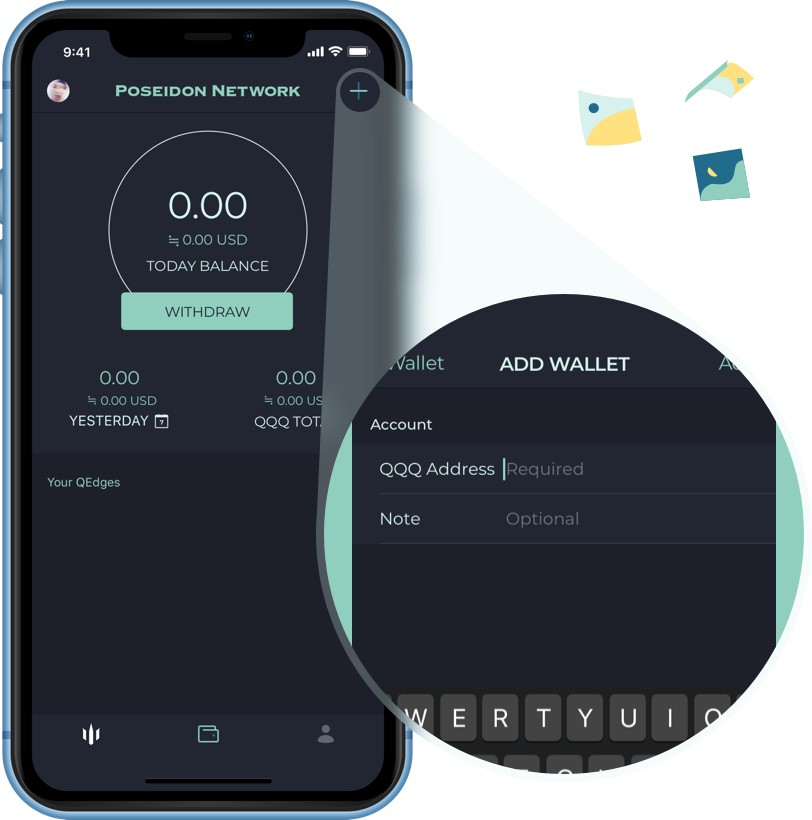
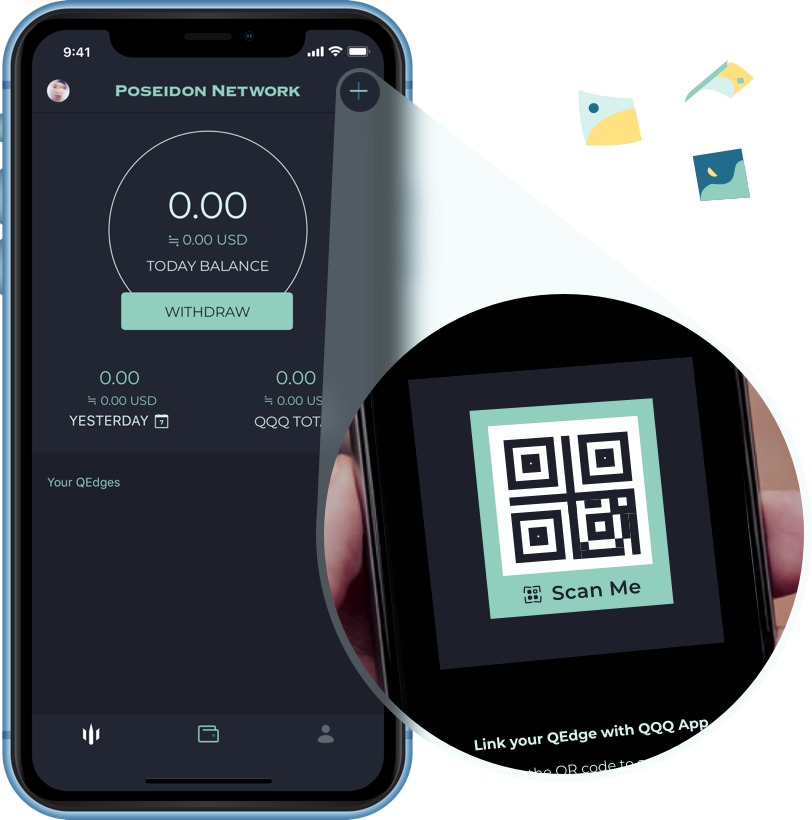
feat: QEdge page RWD (#92)

Changed region(s): [[0.4002, 0.3354, 1.0, 0.9451]]

diff --git a/components/edge/Link.tsx b/components/edge/Link.tsx
@@ -20,9 +20,14 @@ const Link = ({ sn, t }: IProps & ITrans) => {
     <Section
       bgColor={styles.darkLight}
       color={styles.primaryColor}
-      padding="110px 0"
+      padding="10vh 0"
+      mStyle="padding-top: 30px; padding-bottom: 30px;"
     >
-      <Content direction="row">
+      <Content
+        direction="row"
+        mStyle="flex-direction: column-reverse;"
+        sStyle="flex-direction: column-reverse;"
+      >
         <Col>
           <H1 margin="0 0 10px">2</H1>
           <ScrollAnimation animateOnce animateIn="fadeInUp">
@@ -33,21 +38,23 @@ const Link = ({ sn, t }: IProps & ITrans) => {
           </ScrollAnimation>
           <ScrollAnimation animateOnce animateIn="fadeInUp" delay={800}>
             <div className="qrcode">
-              <img
-                src={`https://api.qrserver.com/v1/create-qr-code/?size=400x400&data=QN-TEST:${sn}`}
-              />
+              <div className="qrcode-wrapper">
+                <img
+                  src={`https://api.qrserver.com/v1/create-qr-code/?size=1000x1000&data=QN-TEST:${sn}`}
+                />
+                <p className="qrcode-text">Scan Me</p>
+              </div>
             </div>
           </ScrollAnimation>
         </Col>
-        <Col style="margin: 0 80px;" mStyle="margin: 0;">
-          <img src="/static/qedge-img-2@2x.png" />
+        <Col style="margin: 0 80px;">
+          <img className="instruction-img" src="/static/qedge-img-2@2x.png" />
         </Col>
       </Content>
       <style jsx>{`
         img {
           width: 100%;
-          max-wdith: 500px;
-          min-width: 300px;
+          max-width: 500px;
           object-fit: contain;
         }
 
@@ -55,19 +62,45 @@ const Link = ({ sn, t }: IProps & ITrans) => {
           width: 100%;
         }
 
-        .qrcode img {
-          height: 250px;
+        .qrcode-wrapper {
           width: 250px;
+          padding: 20px 20px 0;
+          background-color: #90cfbe;
+        }
+
+        .qrcode img {
+          width: 100%;
           min-width: initial;
           background-color: white;
           padding: 12px;
+          margin: auto;
+          display: block;
+        }
+
+        .qrcode-text {
           margin: 0;
+          padding: 8px 0;
+          color: #1d202b;
+          font-size: 24px;
+          font-weight: bold;
+          text-align: center;
         }
 
         @media only screen and (max-width: 1024px) {
           img {
             width: 100%;
-            margin-bottom: 160px;
+            margin-bottom: 20px;
+          }
+
+          .instruction-img {
+            height: 30vh;
+            display: block;
+            margin: auto;
+          }
+
+          .qrcode-wrapper {
+            width: 80%;
+            max-width: 250px;
           }
 
           .qrcode {

diff --git a/components/edge/Download.tsx b/components/edge/Download.tsx
@@ -16,11 +16,12 @@ const Download = ({ t }: ITrans) => {
     <Section
       bgColor={styles.darkLight}
       color={styles.primaryColor}
-      padding="110px 0"
+      padding="10vh 0"
+      mStyle="padding-top: 30px; padding-bottom: 30px;"
     >
       <Content direction="row">
-        <Col style="margin: 0 80px;" mStyle="margin: 0;">
-          <img src="/static/qedge-img-1@2x.png" />
+        <Col style="margin: 0 80px;">
+          <img className="instruction-img" src="/static/qedge-img-1@2x.png" />
         </Col>
         <Col>
           <H1 margin="0 0 10px">1</H1>
@@ -34,7 +35,7 @@ const Download = ({ t }: ITrans) => {
             <div className="download">
               <a
                 target="_blank"
-                href="https://apps.apple.com/us/app/poseidon-qapp/id1468063328?l=zh&ls=1"
+                href="https://apps.apple.com/app/qqq-app/id1468063328"
               >
                 <img alt="apple store" src="/static/img-ios-badge@2x.png" />
               </a>
@@ -49,15 +50,20 @@ const Download = ({ t }: ITrans) => {
       <style jsx>{`
         img {
           width: 100%;
-          max-wdith: 500px;
-          min-width: 300px;
+          max-width: 500px;
           object-fit: contain;
         }
 
         @media only screen and (max-width: 1024px) {
           img {
             width: 100%;
-            margin-bottom: 160px;
+            margin-bottom: 20px;
+          }
+
+          .instruction-img {
+            height: 30vh;
+            display: block;
+            margin: auto;
           }
         }
 

diff --git a/components/edge/Gain.tsx b/components/edge/Gain.tsx
@@ -16,11 +16,12 @@ const Gain = ({ t }: ITrans) => {
     <Section
       bgColor={styles.darkLight}
       color={styles.primaryColor}
-      padding="110px 0"
+      padding="10vh 0"
+      mStyle="padding-top: 30px; padding-bottom: 30px;"
     >
       <Content direction="row">
-        <Col style="margin: 0 80px;" mStyle="margin: 0;">
-          <img src="/static/qedge-img-3@2x.png" />
+        <Col style="margin: 0 80px;">
+          <img className="instruction-img" src="/static/qedge-img-3@2x.png" />
         </Col>
         <Col>
           <H1 margin="0 0 10px">3</H1>
@@ -35,15 +36,20 @@ const Gain = ({ t }: ITrans) => {
       <style jsx>{`
         img {
           width: 100%;
-          max-wdith: 500px;
-          min-width: 300px;
+          max-width: 500px;
           object-fit: contain;
         }
 
         @media only screen and (max-width: 1024px) {
           img {
             width: 100%;
-            margin-bottom: 160px;
+            margin-bottom: 20px;
+          }
+
+          .instruction-img {
+            height: 30vh;
+            display: block;
+            margin: auto;
           }
         }
 

diff --git a/components/Section.tsx b/components/Section.tsx
@@ -5,6 +5,7 @@ interface IProps {
   padding?: string;
   backgroundImage?: string;
   style?: string;
+  mStyle?: string;
 }
 
 const Layout = ({
@@ -14,6 +15,7 @@ const Layout = ({
   padding,
   backgroundImage,
   style = '',
+  mStyle = '',
 }: IProps) => (
   <div className="section">
     {children}
@@ -44,6 +46,7 @@ const Layout = ({
           padding-right: 30px;
           padding-top: 60px;
           padding-bottom: 60px;
+          ${mStyle}
         }
       }
     `}</style>

diff --git a/components/edge/Footer.tsx b/components/edge/Footer.tsx
@@ -5,7 +5,7 @@ import { withTranslation } from '../../i18n';
 import { styles } from '../../constants';
 
 const Footer = ({ t }: ITrans) => (
-  <Section padding="77px 0 100px" bgColor="#1d202b" color="#fff">
+  <Section padding="47px 0 70px" bgColor="#1d202b" color="#fff">
     <Content direction="row" style="align-items: center;">
       <div className="company-info">
         <img className="logo" alt="logo" src="/static/poseidonnetwork.svg" />
